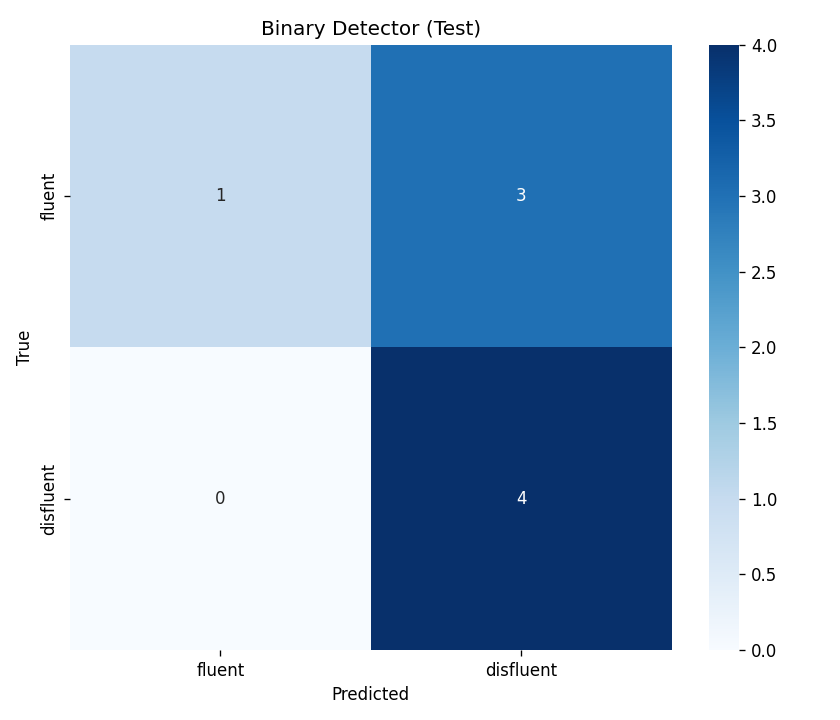
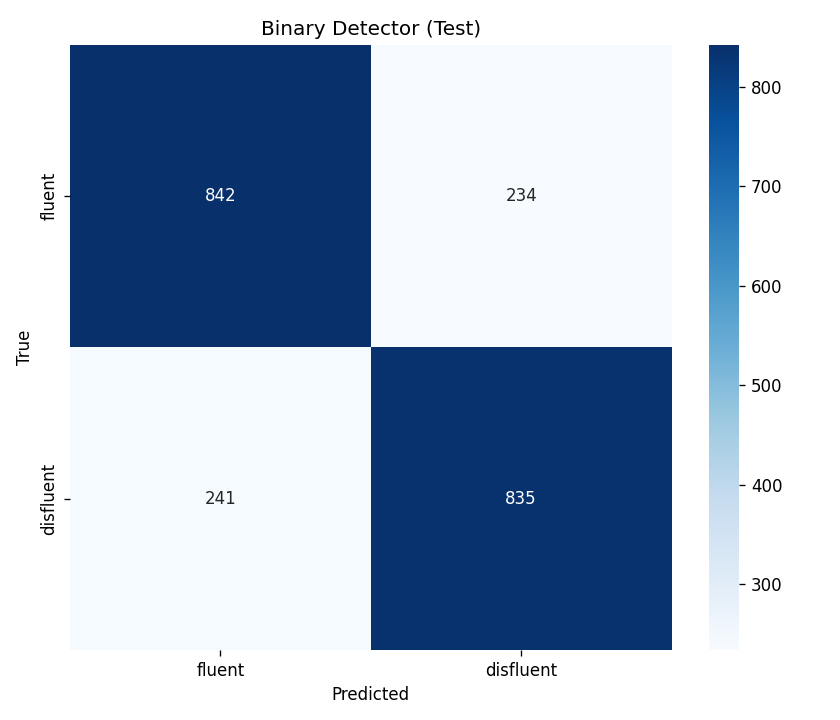
Upgrade stutter model to wav2vec 2.0 (best results)
Switch the default detector to wav2vec2 speech embeddings:
- binary fluent-vs-disfluent: 77.9% balanced accuracy, 0.856 ROC-AUC
  (up from 66.7% / 0.734 with classical features)
- type classification macro-F1 ~34.9% (indicative)
- updated weights, config, confusion matrices, metrics, and README
- add torch + transformers to ML requirements

diff --git a/model_training/README.md b/model_training/README.md
@@ -62,16 +62,23 @@ recommended model.
 | Feature set | Balanced accuracy | ROC-AUC | Cross-dataset disfluent recall |
 |---|---|---|---|
 | 86 classical (MFCC + spectral) | 65.1% | 71.7 | — |
-| **186 classical (+ delta + contrast/flatness/RMS)** | **66.7%** | **73.4** | **71.3%** |
+| 186 classical (+ delta + contrast/flatness/RMS) | 66.7% | 73.4 | 71.3% |
 | 186 classical + YAMNet (1210-d) | 68.4% | 75.3 | 59.3% (overfit to source) |
+| **186 classical + wav2vec 2.0 (954-d) — DEFAULT** | **77.9%** | **85.6** | **66.7%** |
 
 Key findings:
-- The 186-feature classical model is the deployed default — best **generalisation**.
-- YAMNet (general-audio embeddings) improved in-distribution accuracy slightly
-  but **hurt** cross-dataset transfer.
-- **wav2vec2** (speech self-supervised) is the identified next step for higher,
-  more robust accuracy; the pipeline supports it (`features.py` mode `wav2vec2`,
-  `deep_wav2vec_pipeline.py`).
+- **wav2vec 2.0 (speech self-supervised) is the deployed default** — a large,
+  reliable jump to **77.9% balanced accuracy / 0.856 ROC-AUC**, approaching the
+  ~85% inter-annotator ceiling, while keeping solid cross-dataset recall (66.7%).
+  Best binary classifier on these features was Logistic Regression.
+- **YAMNet** (general-audio embeddings) improved in-distribution accuracy a little
+  but **hurt** cross-dataset transfer (59.3%) — it over-fit the source dataset.
+  wav2vec2, being speech-specific, did not.
+- The 186-feature **classical** model is a lightweight fallback (no PyTorch needed).
+- **Type classification** (which of the 5 stutter types) also improved with
+  wav2vec2 — accuracy ~42.8%, macro-F1 ~34.9% (up from ~28%) — but remains the
+  harder task and is reported as an *indicative* secondary output, not a
+  definitive diagnosis.
 
 A SEP-28k binary detector is inherently bounded by inter-annotator disagreement
 (~85% ceiling), so metrics are reported with balanced accuracy + ROC-AUC +
@@ -93,10 +100,12 @@ python -c "from fluentra_stutter_model import analyze_audio_v2, json; \
 import json; print(json.dumps(analyze_audio_v2('clip.wav')['analysis'], indent=2))"
 ```
 
-> Large weight files (`type_classifier.pkl` ~49 MB, `stutter_rf_model.pkl` ~17 MB)
-> are not committed — rerun `train_improved.py` / the notebook to regenerate them.
-> The small binary detector + scalers needed for the recommended v2 engine **are**
-> included, so inference works out of the box.
+> The wav2vec2 binary detector + scalers + the (compressed) type classifier are
+> committed, so inference works out of the box. Only the legacy 6-class
+> ensemble's large `stutter_rf_model.pkl` (~17 MB) and duplicate `.pkl` weights
+> are excluded — rerun `train_improved.py` / the notebook to regenerate them.
+> Running the default wav2vec2 model downloads the ~360 MB `wav2vec2-base` model
+> on first use and needs PyTorch (see `requirements-ml.txt`).
 
 ## Integration with the Django app
 